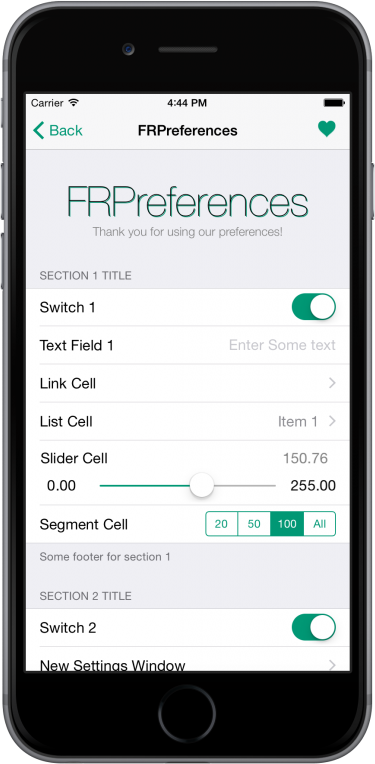
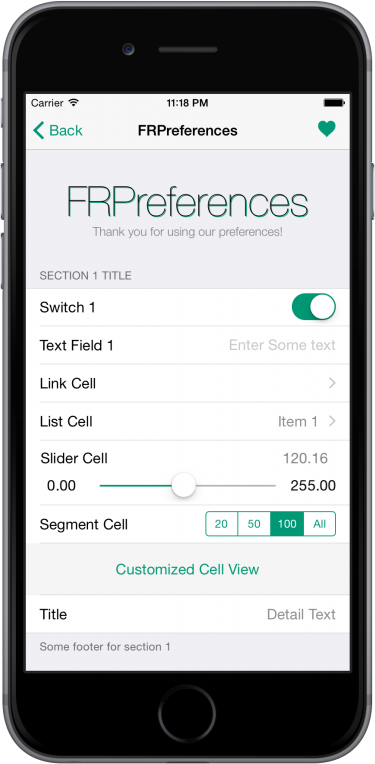
Added FRPValueCell for a cell with just a title and detail

diff --git a/FRPreferencesExample/FRPreferences/ViewController.m b/FRPreferencesExample/FRPreferences/ViewController.m
@@ -106,6 +106,20 @@
     [section1 addCell:segmentCell];
     
     
+    FRPViewCell *viewCell = [FRPViewCell cellWithHeight:60 cellBlock:^(UITableViewCell *cell) {
+        cell.backgroundColor = [UIColor colorWithRed:245/255.0f green:245/255.0f blue:245/255.0f alpha:1.0f];
+        CGSize screenSize = [UIScreen mainScreen].bounds.size;
+        UILabel *label = [[UILabel alloc] initWithFrame:CGRectMake(0, 0, screenSize.width, 60)];
+        label.text = @"Customized Cell View";
+        label.textColor = greenColor;
+        label.textAlignment = NSTextAlignmentCenter;
+        [cell.contentView addSubview:label];
+    }];
+    [section1 addCell:viewCell];
+    
+    
+    [section1 addCell:[FRPValueCell cellWithTitle:@"Title" detail:@"Detail Text"]];
+
     
     /* ANOTHER SECTION */
     

diff --git a/FRPreferences/FRPCells/FRPValueCell.m b/FRPreferences/FRPCells/FRPValueCell.m
@@ -1,0 +1,25 @@
+//
+//  FRPValueCell.m
+//  FRPreferences
+//
+//  Created by Fouad Raheb on 7/22/15.
+//  Copyright (c) 2015 F0u4d. All rights reserved.
+//
+
+#import "FRPValueCell.h"
+
+@implementation FRPValueCell
+
++ (instancetype)cellWithTitle:(NSString *)title detail:(NSString *)detail {
+    return [[self alloc] cellWithTitle:title detail:detail];
+}
+
+- (instancetype)cellWithTitle:(NSString *)title detail:(NSString *)detail {
+    FRPValueCell *cell = [super initWithTitle:title setting:nil];
+    cell.accessoryType = UITableViewCellAccessoryNone;
+    cell.selectionStyle = UITableViewCellSelectionStyleNone;
+    cell.detailTextLabel.text = detail;
+    return cell;
+}
+
+@end

diff --git a/FRPreferences/FRPCells/FRPViewCell.m b/FRPreferences/FRPCells/FRPViewCell.m
@@ -17,6 +17,7 @@
 - (instancetype)cellWithHeight:(int)height cellBlock:(FRPViewCellBlock)block {
     FRPViewCell *cell = [super initWithTitle:nil setting:nil];
     cell.accessoryType = UITableViewCellAccessoryNone;
+    cell.selectionStyle = UITableViewCellSelectionStyleNone;
     cell.height = height;
     block(self);
     return cell;

diff --git a/FRPreferences/FRPCells/FRPValueCell.h b/FRPreferences/FRPCells/FRPValueCell.h
@@ -1,0 +1,13 @@
+//
+//  FRPValueCell.h
+//  FRPreferences
+//
+//  Created by Fouad Raheb on 7/22/15.
+//  Copyright (c) 2015 F0u4d. All rights reserved.
+//
+
+#import "FRPCell.h"
+
+@interface FRPValueCell : FRPCell
++ (instancetype)cellWithTitle:(NSString *)title detail:(NSString *)detail;
+@end

diff --git a/FRPreferences/FRPrefs.h b/FRPreferences/FRPrefs.h
@@ -18,6 +18,7 @@
 #import "FRPSliderCell.h"
 #import "FRPListCell.h"
 #import "FRPSegmentCell.h"
+#import "FRPValueCell.h"
 
 
 id FRPValue(NSString *key);

diff --git a/README.md b/README.md
@@ -19,7 +19,7 @@ pod 'FRPreferences', :git => 'https://github.com/F0u4d/FRPreferences'
 
 FRPreferences has 2 types of sections:
 
-- `FRPSection`: used to create a section with multiple cells.
+- `FRPSection`: used to create a section with multiple cells
 - `FRPViewSection`: used to create a view section
 
 ***FRPSection***
@@ -32,12 +32,13 @@ FRPSection *section1 = [FRPSection sectionWithTitle:@"Section 1 Title" footer:@"
 
 **Adding cells to a section**
 
-- `FRPSwitchCell`: used to create a cell with a UISwitch.
-- `FRPTextFieldCell`: used to create a cell with a UITextField.
-- `FRPLinkCell`: used to a row with disclosure indicator.
-- `FRPListCell`: used to create a list of items to select one.
-- `FRPSliderCell`: used to create a row with a UISlider.
+- `FRPSwitchCell`: used to create a cell with a UISwitch
+- `FRPTextFieldCell`: used to create a cell with a UITextField
+- `FRPLinkCell`: used to a row with disclosure indicator
+- `FRPListCell`: used to create a list of items to select one
+- `FRPSliderCell`: used to create a row with a UISlider
 - `FRPSegmentCell`: used to create row with a UISegmentedControl
+- `FRPValueCell`: used to create a row with just a title and detail text
 
 
 ***FRPSwitchCell***
@@ -120,8 +121,29 @@ FRPSegmentCell *segmentCell = [FRPSegmentCell cellWithTitle:@"Segment Cell"
 ```
 
 
-**Creating a View section**
+***FRPViewCell***
 
+```obj-c
+FRPViewCell *viewCell = [FRPViewCell cellWithHeight:60 cellBlock:^(UITableViewCell *cell) {
+    cell.backgroundColor = [UIColor colorWithRed:245/255.0f green:245/255.0f blue:245/255.0f alpha:1.0f];
+    CGSize screenSize = [UIScreen mainScreen].bounds.size;
+    UILabel *label = [[UILabel alloc] initWithFrame:CGRectMake(0, 0, screenSize.width, 60)];
+    label.text = @"Customized Cell View";
+    label.textColor = greenColor;
+    label.textAlignment = NSTextAlignmentCenter;
+    [cell.contentView addSubview:label];
+}];
+[section2 addCell:viewCell];
+```
+
+***FRPValueCell***
+
+```obj-c    
+[section2 addCell:[FRPValueCell cellWithTitle:@"Title" detail:@"Detail Text"]];
+```
+
+
+**Creating a section view**
 
 ***FRPViewSection***
 
